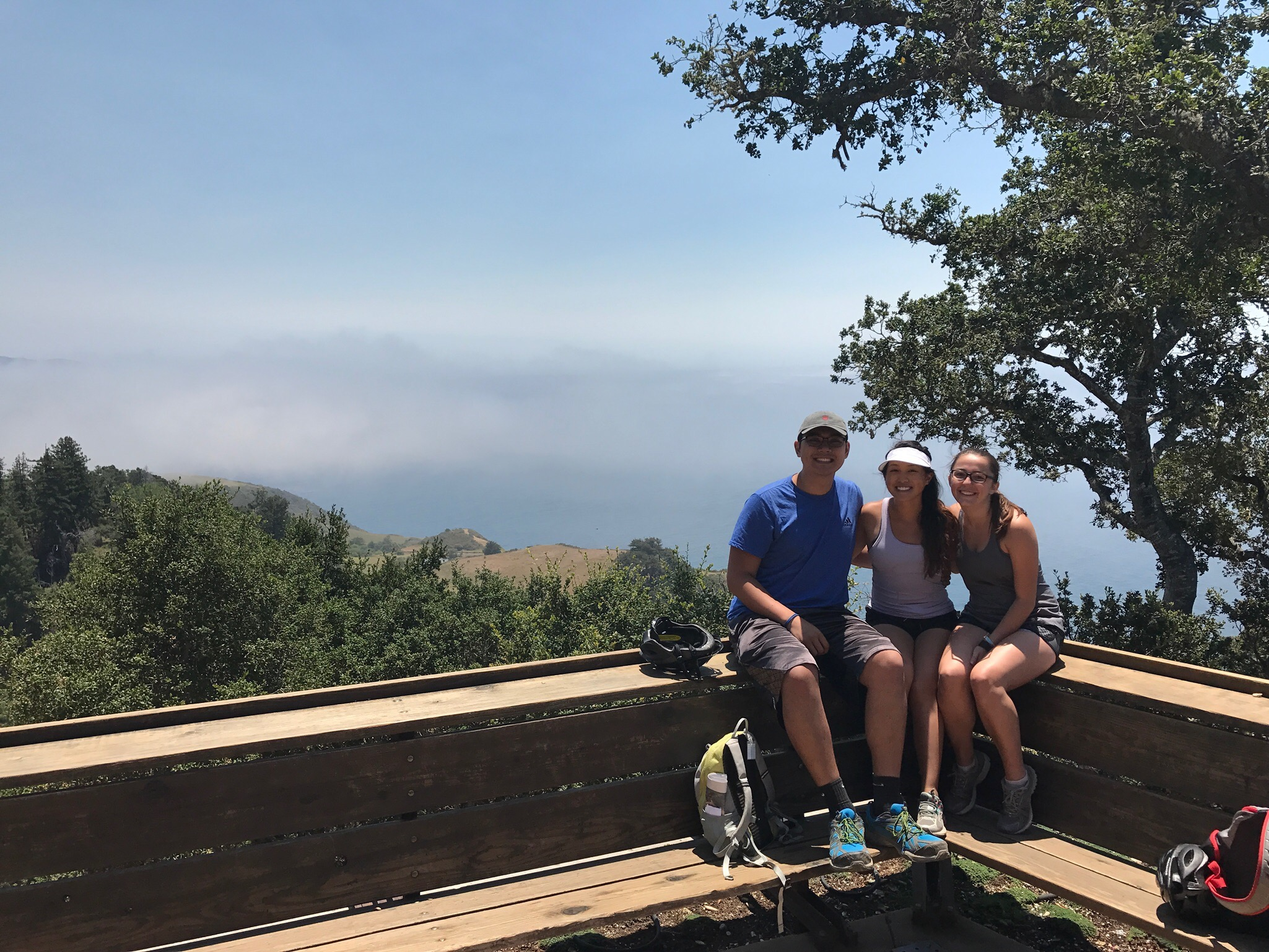
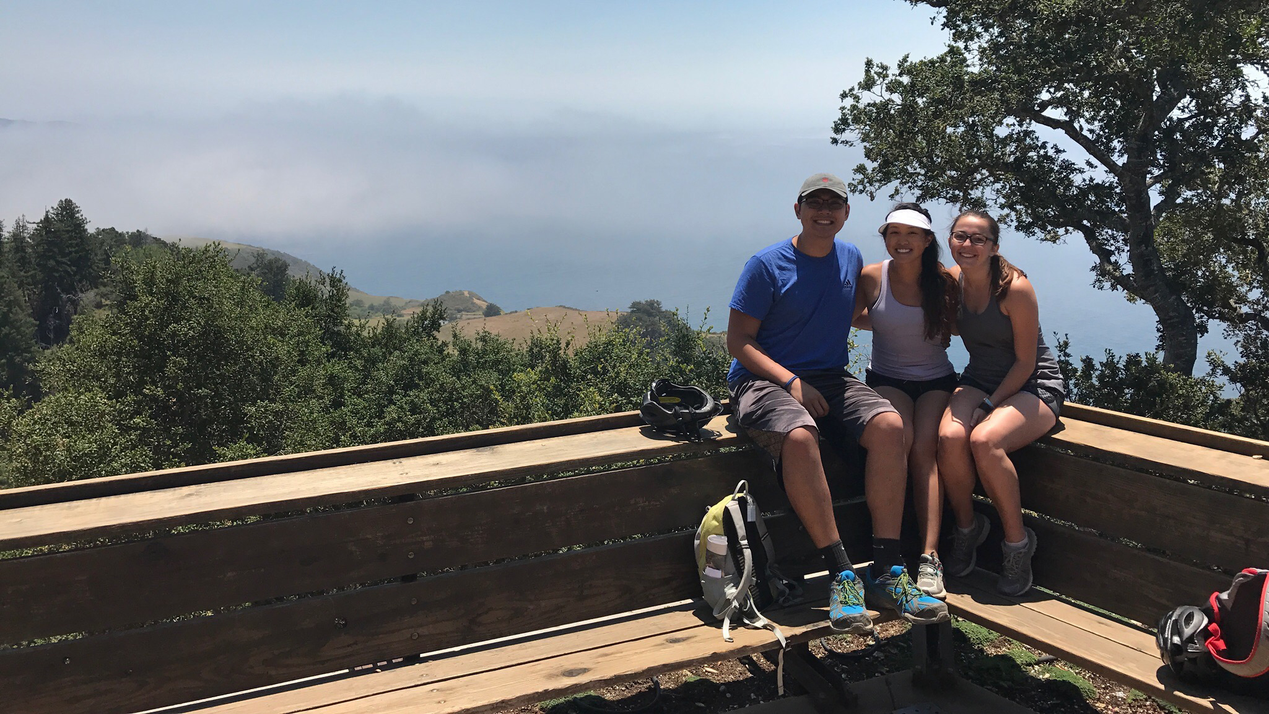
Fixed jittery images + added google analytics

diff --git a/templates/index.html b/templates/index.html
@@ -1,6 +1,18 @@
 <!DOCTYPE html>
 <html lang="en">
-<head><meta http-equiv="Content-Type" content="text/html; charset=UTF-8">
+<head>
+    <!-- Google Analytics (analytics.google.com) ===== DO NOT TOUCH ==== -->
+    <script async src="https://www.googletagmanager.com/gtag/js?id=UA-117911099-1"></script>
+    <script>
+      window.dataLayer = window.dataLayer || [];
+      function gtag(){dataLayer.push(arguments);}
+      gtag('js', new Date());
+
+      gtag('config', 'UA-117911099-1');
+    </script>
+    <!-- Google Analytics ============================ DO NOT TOUCH ==== -->
+
+    <meta http-equiv="Content-Type" content="text/html; charset=UTF-8">
     <!-- Basic Page Needs
     –––––––––––––––––––––––––––––––––––––––––––––––––– -->
     <meta charset="utf-8">

diff --git a/templates/spotlight.html b/templates/spotlight.html
@@ -1,6 +1,18 @@
 <!DOCTYPE html>
 <html lang="en">
-<head><meta http-equiv="Content-Type" content="text/html; charset=UTF-8">
+<head>
+    <!-- Google Analytics (analytics.google.com) ===== DO NOT TOUCH ==== -->
+    <script async src="https://www.googletagmanager.com/gtag/js?id=UA-117911099-1"></script>
+    <script>
+      window.dataLayer = window.dataLayer || [];
+      function gtag(){dataLayer.push(arguments);}
+      gtag('js', new Date());
+
+      gtag('config', 'UA-117911099-1');
+    </script>
+    <!-- Google Analytics ============================ DO NOT TOUCH ==== -->
+
+    <meta http-equiv="Content-Type" content="text/html; charset=UTF-8">
     <!-- Basic Page Needs
     –––––––––––––––––––––––––––––––––––––––––––––––––– -->
     <meta charset="utf-8">

diff --git a/static/js/custom.js b/static/js/custom.js
@@ -50,7 +50,7 @@ $(document).ready(function(){
 		autoplay: true,
 		autoplaySpeed: 5000,
 		arrows:true,
-		adaptiveHeight: true,
+		adaptiveHeight: false,
 		appendArrows: $('.spt-nav'),
 		prevArrow: '<button style="margin-right:20px;"><</button>',
 		nextArrow: '<button style="">></button>'
